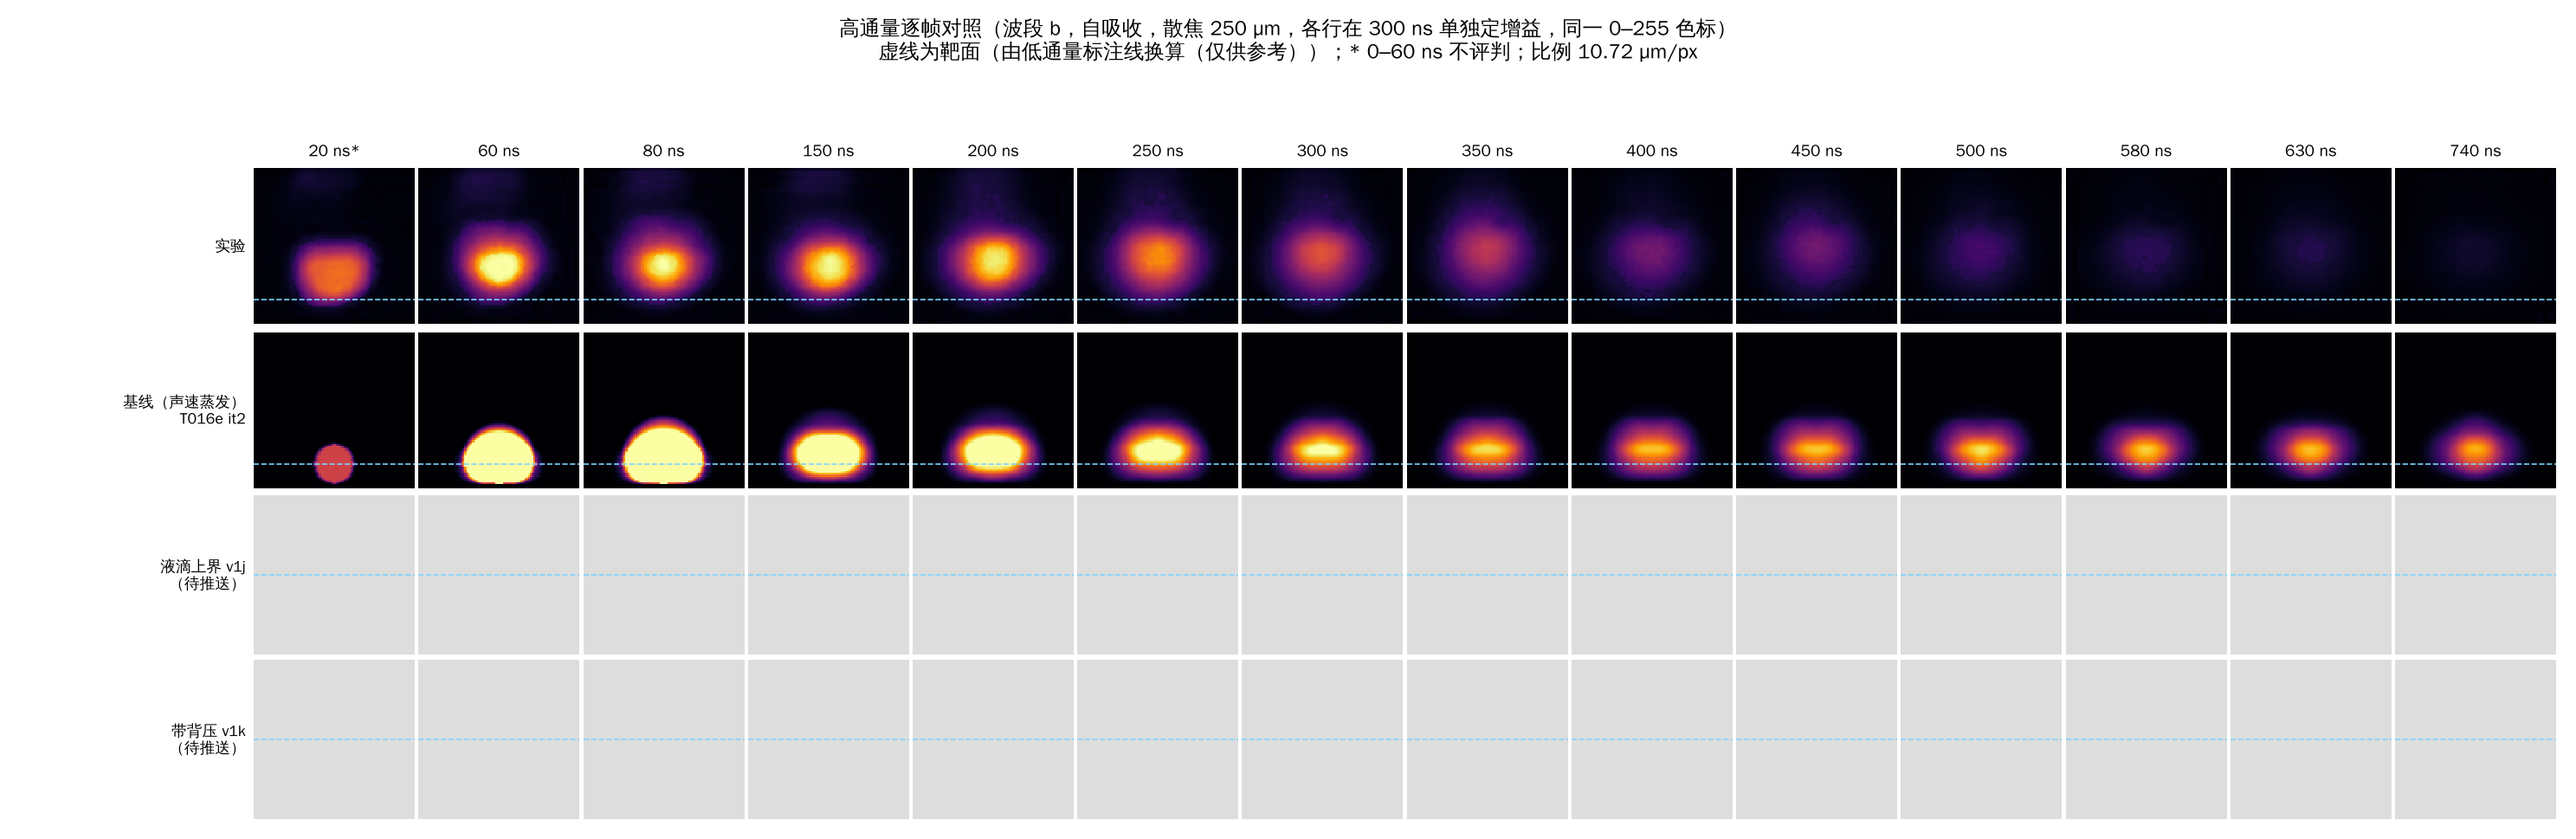
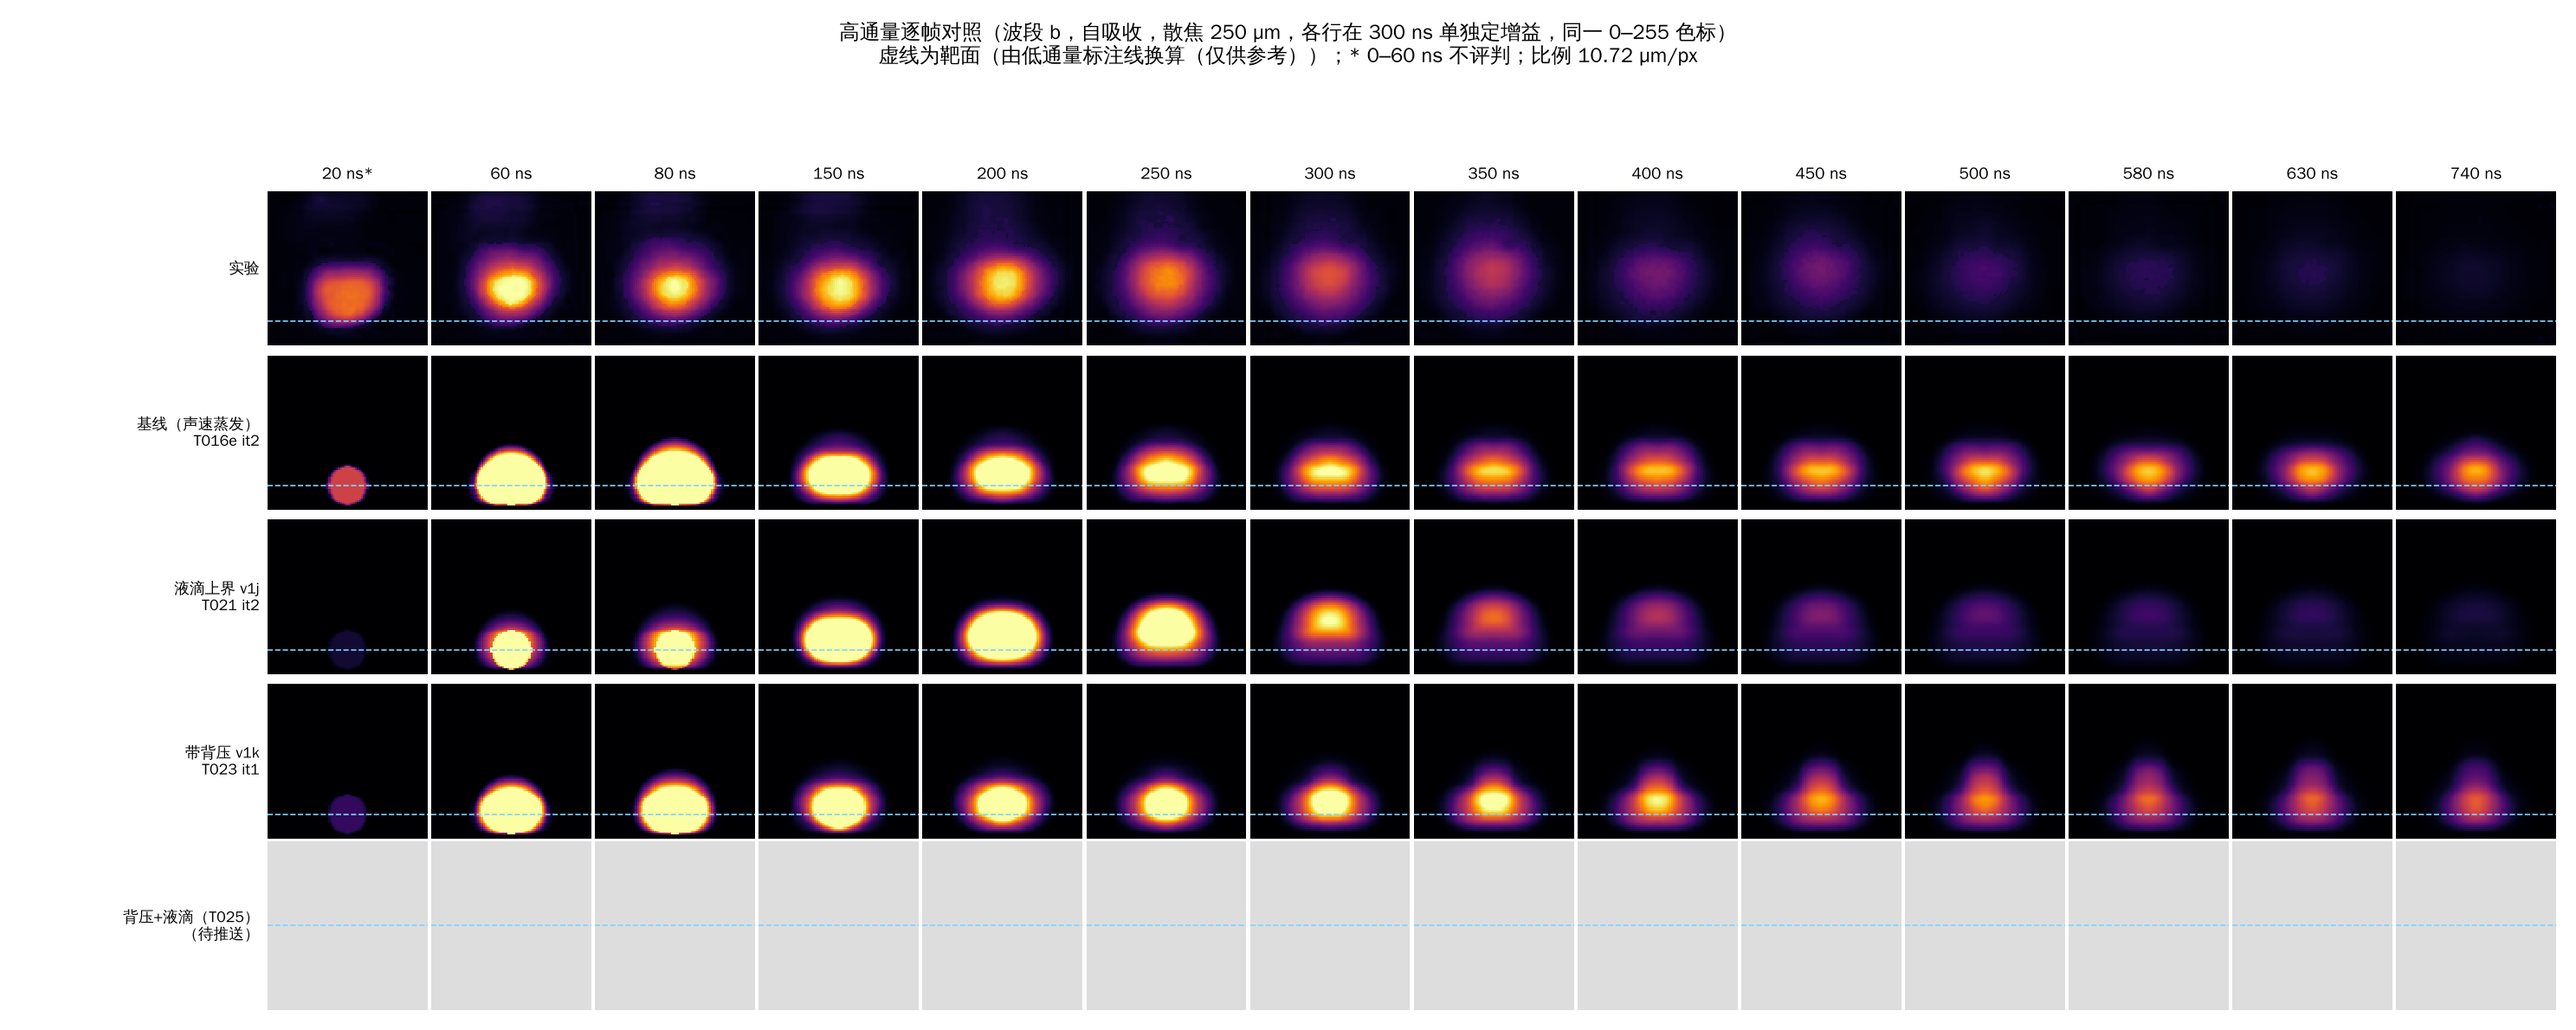
Full comparison: add T025 (back pressure + droplets) row; refresh with T021 high it2 / T023 latest
Claude-Session: https://claude.ai/code/session_01FS7WDGPKzwdDyXZyPwrs24

diff --git a/scripts/plot_full_comparison.py b/scripts/plot_full_comparison.py
@@ -5,6 +5,7 @@ match to the data:
   baseline  : T016e (v1i, PE off, sonic Knight)           high it2 / low it1
   droplets  : T021  (v1j droplet upper bound)              high it2 / low it1
   backpress : T023  (v1k Knight with back pressure)        latest finished iteration
+  combo     : T025  (v1k + v1j droplet upper bound)        latest finished iteration
 Imaging: image_v2, filter b, self-absorption (sa) unless --mode thin; baseline defocus; one gain per model and series
 set at t_ref = 300 ns (camera.gain_for_reference), common 0–255 scale.
 Geometry: the model face is placed on the experimental surface row (results/surface/: low = Fig. 2a Air/Copper line,
@@ -42,8 +43,8 @@ plt.rcParams.update({"font.size": 9, "axes.spines.top": False, "axes.spines.righ
 LOGFMT = FuncFormatter(lambda v, _: f"{v:g}")
 T_REF = 300.0  # num (registry t_ref_norm, ns)
 K = "#222222"
-COL = {"baseline": "#2a78d6", "droplets": "#eb6834", "backpress": "#1baf7a"}
-LAB = {"baseline": "基线（声速蒸发）", "droplets": "液滴上界 v1j", "backpress": "带背压 v1k"}
+COL = {"baseline": "#2a78d6", "droplets": "#eb6834", "backpress": "#1baf7a", "combo": "#8e44ad"}
+LAB = {"baseline": "基线（声速蒸发）", "droplets": "液滴上界 v1j", "backpress": "带背压 v1k", "combo": "背压+液滴（T025）"}
 
 
 def latest(base, its):
@@ -57,10 +58,12 @@ def latest(base, its):
 MEMBERS = {
     "high": {"baseline": latest("results/T016e/high_thin_G0", ["it2"]),
              "droplets": latest("results/T021/high_thin_G0", ["it2"]),
-             "backpress": latest("results/T023/high_thin_G0", ["it2", "it1"])},
+             "backpress": latest("results/T023/high_thin_G0", ["it2", "it1"]),
+             "combo": latest("results/T025/high_thin_G0", ["it2", "it1", "it0"])},
     "low": {"baseline": latest("results/T016e/low_thin_G0", ["it1"]),
             "droplets": latest("results/T021/low_thin_G0", ["it1"]),
-            "backpress": latest("results/T023/low_thin_G0", ["it1", "it0"])},
+            "backpress": latest("results/T023/low_thin_G0", ["it1", "it0"]),
+            "combo": latest("results/T025/low_thin_G0", ["it1", "it0"])},
 }
 SHOCK = {"high": {"baseline": "results/T016e/high_thin_G0/it2/shock_track.csv"},
          "low": {"baseline": "results/T016e/low_thin_G0/it2/shock_track.csv"}}
